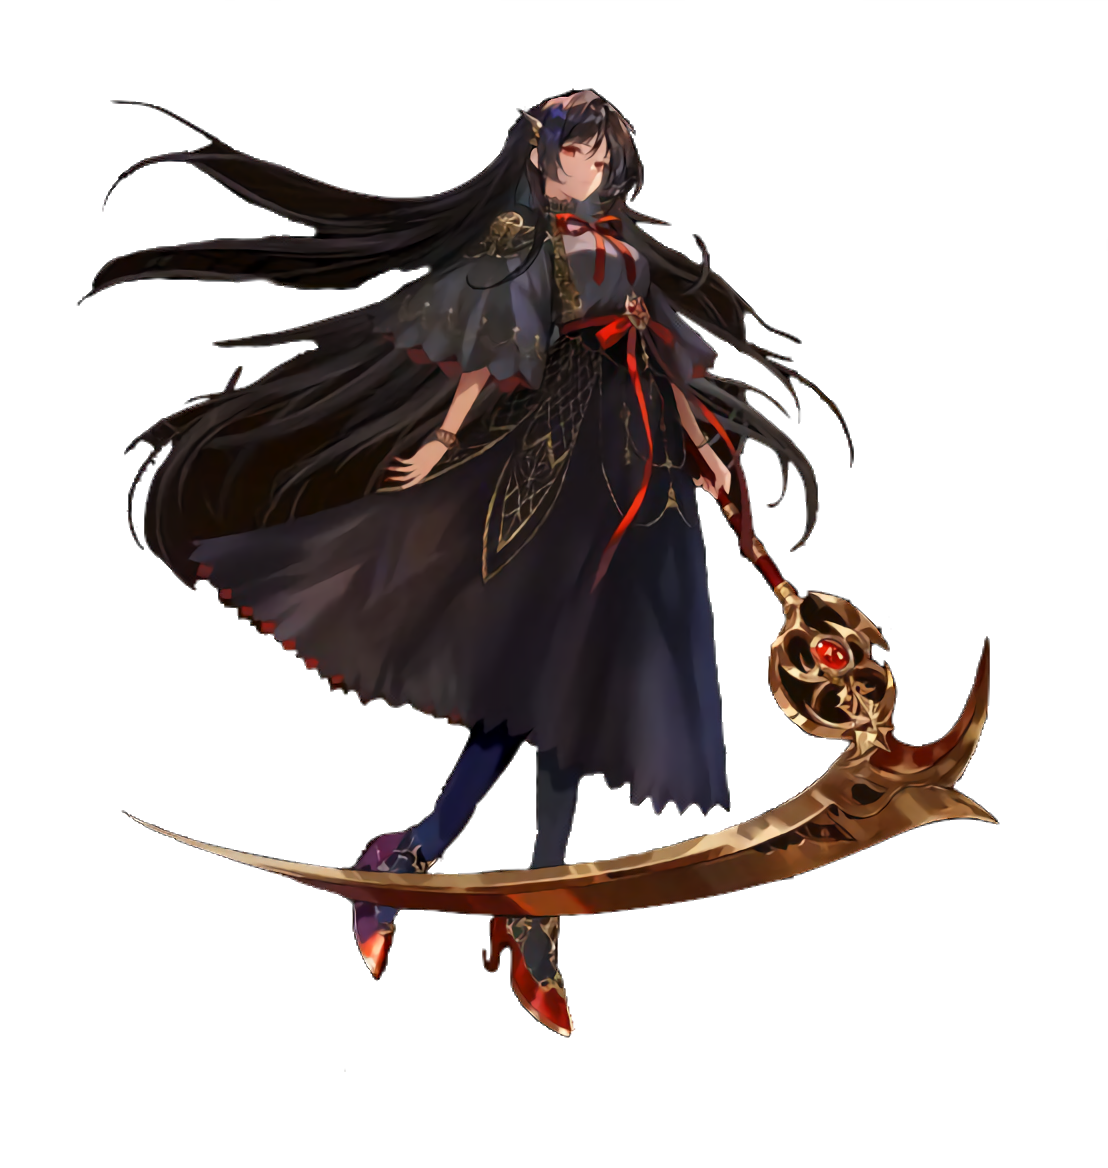
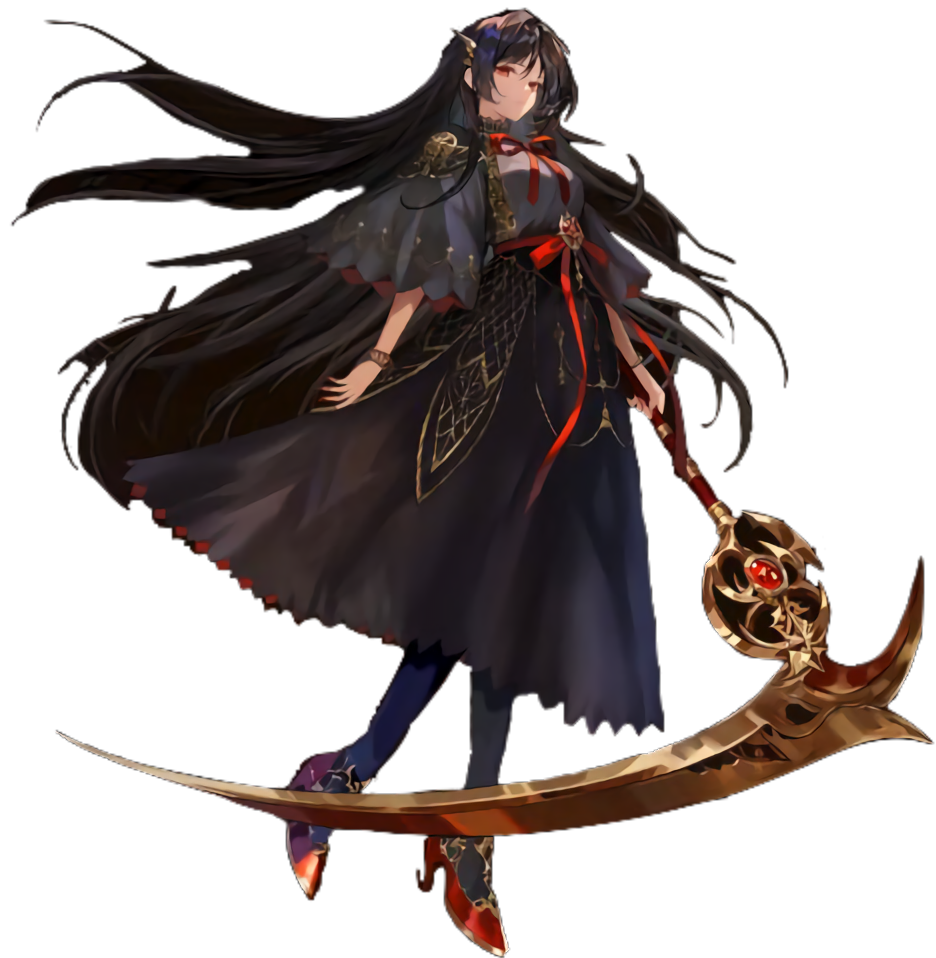
fix:TopPageのヌンと背景のカードサイズ、座標の調整

diff --git a/frontend/src/features/dashboard/components/slideshow-container/SlideshowContainer.tsx b/frontend/src/features/dashboard/components/slideshow-container/SlideshowContainer.tsx
@@ -1,8 +1,10 @@
 import type { FC } from "react";
+import { useRef } from "react";
 import { Wrap } from "@/features/dashboard/components/wrap/Wrap";
 import type { ZindexProps } from "@/features/dashboard/types/props";
 
 export const SlideshowContainer: FC<ZindexProps> = ({ className = "" }) => {
+	const containerRef = useRef<HTMLDivElement>(null);
 	const wrapConfigs = [
 		{ isOffset: false },
 		{ isOffset: true },
@@ -13,7 +15,8 @@ export const SlideshowContainer: FC<ZindexProps> = ({ className = "" }) => {
 
 	return (
 		<div
-			className={`-translate-y-1/4 flex h-[80rem] w-full min-w-[50rem] rotate-[-25deg] transform-gpu gap-0 overflow-hidden md:translate-x-2/5 ${className}`}
+			ref={containerRef}
+			className={`-left-[25%] absolute flex h-[150vh] w-fit origin-top-left rotate-[-25deg] transform-gpu gap-0 overflow-hidden md:left-[25%] ${className}`}
 		>
 			{wrapConfigs.map((config, index) => (
 				<Wrap

diff --git a/frontend/src/features/dashboard/components/character-image/CharacterImage.tsx b/frontend/src/features/dashboard/components/character-image/CharacterImage.tsx
@@ -5,15 +5,13 @@ import { IMAGE_PATHS } from "@/lib/constants";
 
 export const CharacterImage: FC<ZindexProps> = ({ className = "" }) => {
 	return (
-		<div
-			className={`fixed inset-0 ${className} -translate-x-1/6 hidden translate-y-1/6 md:block`}
-		>
+		<div className={`${className}`}>
 			<Image
 				src={IMAGE_PATHS.NUN_MYTHOLOGIA}
 				alt="Nun Mythologia Character"
 				width={1108}
 				height={1168}
-				className={`relative h-[95vh] w-auto object-contain ${className}`}
+				className={`absolute bottom-[0%] left-[0%] hidden h-[80vh] max-h-[800px] w-fit max-w-[60%] object-contain md:block ${className}`}
 				priority
 			/>
 		</div>

diff --git a/frontend/src/features/dashboard/components/wrap/Wrap.tsx b/frontend/src/features/dashboard/components/wrap/Wrap.tsx
@@ -9,9 +9,9 @@ export const Wrap: FC<SlideshowProps> = ({
 }) => {
 	return (
 		<div
-			className={`flex h-[80rem] w-[8.75rem] flex-col justify-center overflow-hidden ${className}`}
+			className={`flex h-full w-[8.75rem] flex-col justify-center overflow-hidden ${className}`}
 		>
-			{[1, 2, 3].map((index) => (
+			{[1, 2, 3, 4].map((index) => (
 				<Slideshow
 					key={index}
 					isOffset={isOffset}
